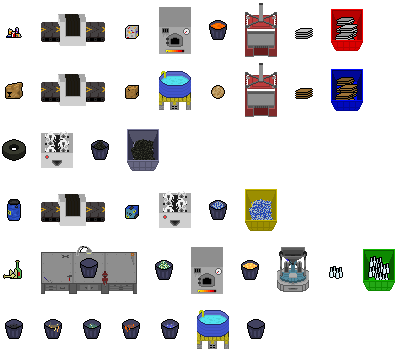
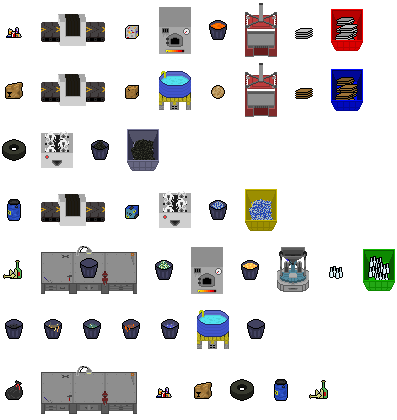
Aide Poubelle

diff --git a/Game.js b/Game.js
@@ -115,11 +115,6 @@ var game = {
 		// Bordures de la scene
 		game.world.setBounds(-10, -10, jeu.width + 10, jeu.height + 10);
 
-		//creation de la Pollution
-		this.polution = levels[MenuGame.cursorMap].polution;
-		this.polution = new PolutionObject(this.polution);
-		this.polution.z = 0;
-
 		// Creation de la map
 		let level = levels[this.id];
 		map = Creatmap(level);
@@ -131,6 +126,9 @@ var game = {
 		//enleve le cursor
 		document.body.style.cursor = 'none';
 
+		//Creation de la Pollution
+		this.polution = new PolutionObject(levels[MenuGame.cursorMap].polution);
+		
 		//Creation du timer
 		this.mytimer = new MyTimer(level.chrono);
 
@@ -157,37 +155,43 @@ var game = {
 
 				// Aides
 				var pauseHelps = [];
-				pauseHelps.push(pauseGroup.create(700, (pauseHelps.length * 80 + 200), 'help'));
+				pauseHelps.push(pauseGroup.create(700, (pauseHelps.length * 80 + 150), 'help'));
 				pauseHelps[pauseHelps.length - 1].frame = 5;
 				pauseHelps[pauseHelps.length - 1].scale.setTo(1.4,1.4);
 				pauseHelps[pauseHelps.length - 1].alpha = 0;
 				if(levels[this.id].items.indexOf(itemsId.Metal) != -1){
-					pauseHelps.push(pauseGroup.create(700, (pauseHelps.length * 80 + 200), 'help'));
+					pauseHelps.push(pauseGroup.create(700, (pauseHelps.length * 80 + 150), 'help'));
 					pauseHelps[pauseHelps.length - 1].frame = 0;
 						pauseHelps[pauseHelps.length - 1].scale.setTo(1.4,1.4);
 					pauseHelps[pauseHelps.length - 1].alpha = 0;
 				}
 				if(levels[this.id].items.indexOf(itemsId.Carton) != -1){
-					pauseHelps.push(pauseGroup.create(700, (pauseHelps.length * 80 + 200), 'help'));
+					pauseHelps.push(pauseGroup.create(700, (pauseHelps.length * 80 + 150), 'help'));
 					pauseHelps[pauseHelps.length - 1].frame = 1;
 						pauseHelps[pauseHelps.length - 1].scale.setTo(1.4,1.4);
 					pauseHelps[pauseHelps.length - 1].alpha = 0;
 				}
 				if(levels[this.id].items.indexOf(itemsId.Pneu) != -1){
-					pauseHelps.push(pauseGroup.create(700, (pauseHelps.length * 80 + 200), 'help'));
+					pauseHelps.push(pauseGroup.create(700, (pauseHelps.length * 80 + 150), 'help'));
 					pauseHelps[pauseHelps.length - 1].frame = 2;
 						pauseHelps[pauseHelps.length - 1].scale.setTo(1.4,1.4);
 					pauseHelps[pauseHelps.length - 1].alpha = 0;
 				}
 				if(levels[this.id].items.indexOf(itemsId.Plastique) != -1){
-					pauseHelps.push(pauseGroup.create(700, (pauseHelps.length * 80 + 200), 'help'));
+					pauseHelps.push(pauseGroup.create(700, (pauseHelps.length * 80 + 150), 'help'));
 					pauseHelps[pauseHelps.length - 1].frame = 3;
 						pauseHelps[pauseHelps.length - 1].scale.setTo(1.4,1.4);
 					pauseHelps[pauseHelps.length - 1].alpha = 0;
 				}
 				if(levels[this.id].items.indexOf(itemsId.Verre) != -1){
-					pauseHelps.push(pauseGroup.create(700, (pauseHelps.length * 80 + 200), 'help'));
+					pauseHelps.push(pauseGroup.create(700, (pauseHelps.length * 80 + 150), 'help'));
 					pauseHelps[pauseHelps.length - 1].frame = 4;
+						pauseHelps[pauseHelps.length - 1].scale.setTo(1.4,1.4);
+					pauseHelps[pauseHelps.length - 1].alpha = 0;
+				}
+				if(levels[this.id].items.indexOf(itemsId.Poubelle) != -1){
+					pauseHelps.push(pauseGroup.create(700, (pauseHelps.length * 80 + 150), 'help'));
+					pauseHelps[pauseHelps.length - 1].frame = 6;
 						pauseHelps[pauseHelps.length - 1].scale.setTo(1.4,1.4);
 					pauseHelps[pauseHelps.length - 1].alpha = 0;
 				}

diff --git a/Menu.js b/Menu.js
@@ -14,7 +14,7 @@ var Menu = {
 		// Disparition
 		Menu.add.tween(junk.scale).to( { x: 0, y: 0 }, 8000, Phaser.Easing.Linear.None, true);
 		junk.enableBody = true;
-		switch(Math.floor(Math.random() * 5)){
+		switch(Math.floor(Math.random() * 6)){
 			case 0:
 				junk.frame = itemsId.Carton;
 				break;
@@ -30,8 +30,11 @@ var Menu = {
 			case 4:
 				junk.frame = itemsId.Metal;
 				break;
+			case 5:
+				junk.frame = itemsId.Poubelle;
+				break;
 			default:
-				junk.frame = itemsId.Pneu;
+				junk.frame = itemsId.Poubelle;
 		}
 		junk.body.velocity.x = Math.floor(Math.random() * 120) + 40;
 		junk.body.velocity.y = Math.floor(Math.random() * 150) - 70;
